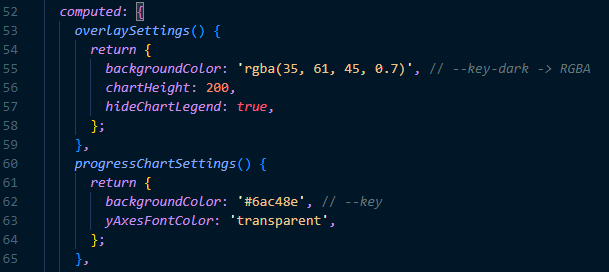
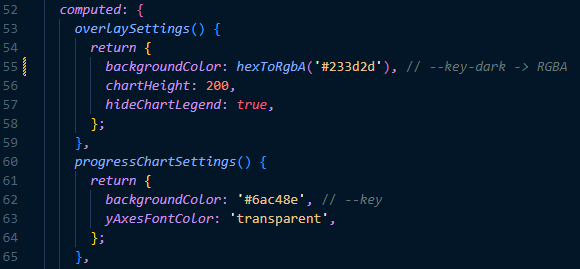
global configuration

diff --git a/Kurokku/Stats/components/App.js b/Kurokku/Stats/components/App.js
@@ -52,7 +52,7 @@ const app = {
   computed: {
     overlaySettings() {
       return {
-        backgroundColor: 'rgba(35, 61, 45, 0.7)', // --key-dark -> RGBA
+        backgroundColor: hexToRgbA('#233d2d'), // --key-dark -> RGBA
         chartHeight: 200,
         hideChartLegend: true,
       };
@@ -72,5 +72,18 @@ const app = {
     },
   },
 };
+
+function hexToRgbA(hex){
+  var c;
+  if(/^#([A-Fa-f0-9]{3}){1,2}$/.test(hex)){
+      c= hex.substring(1).split('');
+      if(c.length== 3){
+          c= [c[0], c[0], c[1], c[1], c[2], c[2]];
+      }
+      c= '0x'+c.join('');
+      return 'rgba('+[(c>>16)&255, (c>>8)&255, c&255].join(',')+', 0.7)';
+  }
+  throw new Error('Bad Hex');
+}
 
 export default app;

diff --git a/Kurokku/Stats/deps/main.css b/Kurokku/Stats/deps/main.css
@@ -1,8 +1,4 @@
-:root {
-  --key: #6ac48e;
-  --key-active: #9cf7c0;
-  --key-dark: #233d2d;
-}
+@import "../../global.css";
 
 body {
   margin: 0;

diff --git a/Kurokku/Combo/deps/main.css b/Kurokku/Combo/deps/main.css
@@ -1,8 +1,4 @@
-:root {
-  --key: #6ac48e;
-  --key-active: #9cf7c0;
-  --key-dark: #233d2d
-}
+@import "../../global.css";
 
 body {
   margin: 0;

diff --git a/Kurokku/PP/deps/main.css b/Kurokku/PP/deps/main.css
@@ -1,8 +1,4 @@
-:root {
-  --key: #6ac48e;
-  --key-active: #9cf7c0;
-  --key-dark: #233d2d
-}
+@import "../../global.css";
 
 body {
   margin: 0;

diff --git a/Kurokku/Key/deps/main.css b/Kurokku/Key/deps/main.css
@@ -1,7 +1,4 @@
-:root {
-  --key: #6ac48e;
-  --key-active: #9cf7c0;
-}
+@import "../../global.css";
 
 body {
   margin: 0;

diff --git a/Kurokku/global.css b/Kurokku/global.css
@@ -1,0 +1,5 @@
+:root {
+    --key: #6ac48e;
+    --key-active: #9cf7c0;
+    --key-dark: #233d2d
+}

diff --git a/README.md b/README.md
@@ -14,7 +14,7 @@ Demo: [Click here](https://youtu.be/3I5x9xlzTc4)
 4. Adjust your OBS overlay and you are done!
 
 ### Colour config
-Since there is no global configuration for all overlays, you will need to edit colour in each **css** files. You need to pick 3 variants type of same colour as 3 following variables: `--key` (normal), `--key-active` (lighten),`--key-dark` (darken).
+There is a global css file for colour configuration. You need to pick 3 variants type of same colour as 3 following variables: `--key` (normal), `--key-active` (lighten),`--key-dark` (darken).
 
 **Examples:**
 1. Venti's Green
@@ -30,7 +30,7 @@ Since there is no global configuration for all overlays, you will need to edit c
 * ![#d790fe](https://placehold.co/15x15/d790fe/d790fe.png) `#d790fe`
 * ![#3a2756](https://placehold.co/15x15/3a2756/3a2756.png) `#3a2756`
 
-To config these colours, find and edit `main.css` file in `/deps/` of each overlay directories. You will find the following code at the begin of the file.
+To config these colours, find and edit `global.css`. You will find the following code in the file.
 ```css
 :root {
   --key: #6ac48e;
@@ -38,13 +38,13 @@ To config these colours, find and edit `main.css` file in `/deps/` of each overl
   --key-dark: #233d2d
 }
 ```
-Change these hex colour codes to your desired one.
+Change these hex colour codes to your desired one. Those can be in RGB format.
 
 For **Hit Count** overlay, you don't need to change these colours as they are in their correct presenting colours.
 
 For **Stats** overlay, you need to do extra step. Find and edit `App.js` file in `/components` of **Hit** directory, navigate to line 55 and line 62:
-- **Line 55**: Convert `--key-dark` hex code to RGBA and then paste it with opacity 0.7. Ex: `#233d2d` &rarr; `rgba(35, 61, 45)`, paste `rgba(35, 61, 45, 0.7)`, the fourth number of RBGA is the opacity.
-- **Line 62**: You only need to paste `--key` hex code to it.
+- **Line 55**: Paste `--key-dark` hex code in `global.css` to it.
+- **Line 62**: Paste `--key` hex code in `global.css` to it.
 
 ![stats](/images/stats.png)
 
